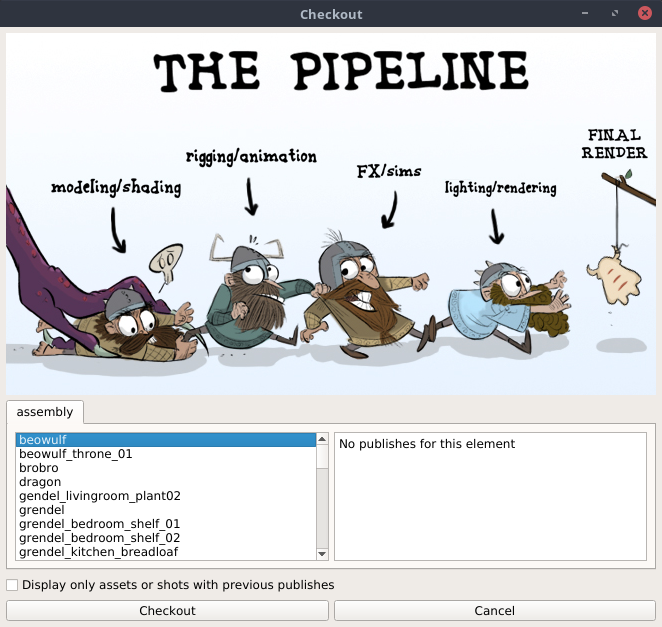
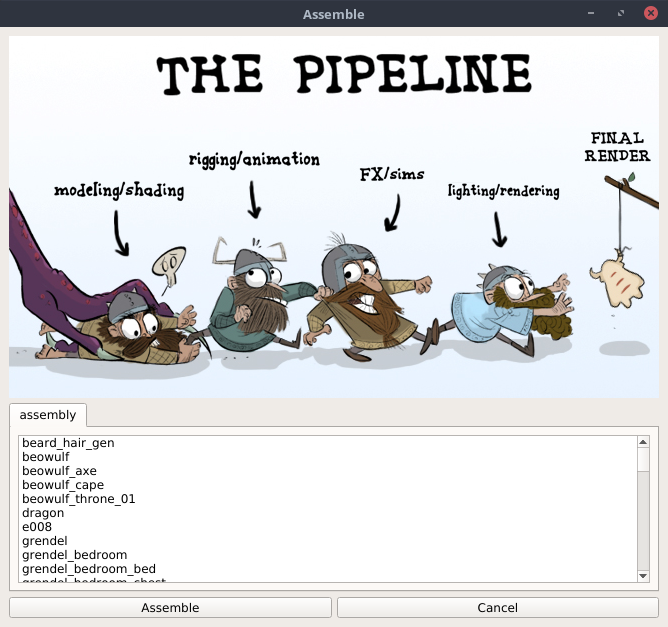
added documentaion for new tools and new understanding

diff --git a/index.html b/index.html
@@ -84,7 +84,7 @@
 
 				<a id="preface-anchor"></a>
 				<h3>Preface</h3>
-				<p>	The very first thing you need to understand about pipelines is that it acts like a library. You go to the library, find the book you want, check it out, read it, then return it to the library. The pipeline works the same way: you go to the pipe, check out the scene you want, change it*, then return it to the pipeline. That way, people can keep checking out the most updated scene and not do work over again that has already been done.</p>
+				<p>The very first thing you need to understand about pipelines is that it acts like a library. You go to the library, find the book you want, check it out, read it, then return it to the library. The pipeline works the same way: you go to the pipe, check out the scene you want, change it*, then return it to the pipeline. That way, people can keep checking out the most updated scene and not do work over again that has already been done.</p>
 				<p>*<strong>*Note:</strong> In that sense it's nothing like a library because typically you should return books to the library in the same condition in which you got it. And in this case you are returning it to the library better than when you picked it up. As a matter of fact there are lots of differences between the pipeline and a library. And we are about to look at another difference here it a bit. So don't hold onto that too tightly analogy.</p>
 				<p>One important difference between the pipeline and a library is that multiple people can check out the same item. This is so that when Mike is working on something Brennan can still check it out and do tests on it or show it off to someone instead of Mike having a monopoly on the model.</p>
 				<p>As we move forward though these instructions please note that every time you see the word Grendel you can replace it with the name of your film, Every time you see the word Grendaya, Grendini, etc, replace it with "TheNameOfYourFilmaya, TheNameOfYourFilmini etc. But for the sake of brevity (and for the sake of our ego) we will just use Grendel, Grendaya, Grendini etc.</p>
@@ -97,7 +97,7 @@
 				<p>In order to have access to the pipeline you need to be a member of "the group". Talk to Seth and he will be able to add you.</p>
 				<p>Once you are part of the group open up a file explorer and navigate to /groups/FILM/byu-pipeline-tools/. FILM will be the name of the group (ie grendel, dusk, etc). This directory is where all of the tools are located.</p>
 				<p>There will be a number of icons, most of which will be some humorous combination of the film name and the software. These icons will launch the software and load all of our custom tools.</p>
-				<img src = "images/screenshots/byu-pipeline-tools.png"/>
+				<img src="images/screenshots/byu-pipeline-tools.png"/>
 				<p>To add these icons to your desktop:
 					<ol>
 						<li>Right click on the icon</li>
@@ -115,8 +115,8 @@
 				</p>
 				<ul>
 					<li>
-						<a href="#asset-def">Assets</a> are either props, accesories, sets, or characters. Assets are composed of various <a href="#element-def">elements</a>: <a href="#model-def">models</a>, <a href="#rig-def">rigs</a>, <a href="#texture-def">textures</a>, <a href="#design-def">designs</a>, <a href="#material-def">materials</a>, and <a href="#assebly-def">assemblies</a>.
-						<p>A common misconception is that an asset is the same as a model, however the appropriate relationship (at least as the pipeline tools see it) is to say that an asset has a model, it is a subtle difference and you will likely hear people (even those that are very familiar with the difference) slip up with it all the time. So just keep in mind as you read through this documentation and talk to others that an asset could potentialy refer to:
+						<a href="#asset-def">Assets</a> are either props, accessories, sets, or characters. Assets are composed of various <a href="#element-def">elements</a>: <a href="#model-def">models</a>, <a href="#rig-def">rigs</a>, <a href="#texture-def">textures</a>, <a href="#design-def">designs</a>, <a href="#material-def">materials</a>, and <a href="#assebly-def">assemblies</a>.
+						<p>A common misconception is that an asset is the same as a model, however the appropriate relationship (at least as the pipeline tools see it) is to say that an asset has a model, it is a subtle difference and you will likely hear people (even those that are very familiar with the difference) slip up with it all the time. So just keep in mind as you read through this documentation and talk to others that an asset could potentially refer to:
 							<ul>
 								<li>something useful or valuable. Everything that is useful or valuable is an asset.</li>
 								<li>short for Houdini Digital Asset</li>
@@ -137,14 +137,23 @@
 				<p><strong>*Note:</strong> For the sake of clarity we will discuss these terms looking at the specific case of the model element of an asset body. But everything should also apply to other elements and other bodies as well.</p>
 				<h4>Body Creation</h4>
 				<p>In order to do anything you need to create a new asset. Assets are usually the first bodies to be created and then shots will be made from assets. Tools will be made as you need them; if you never need them then you will never make them. When you create an asset you will give it a name and the pipeline tools will construct a bunch of folders to store the various elements of the body. For example it will create a model folder that will store the Maya file and the alembic exports for that model. This folder starts out empty but we can fill it by creating the model in Maya and then publishing it to the pipeline.</p>
-				<img src = "images/screenshots/body-creation.png"/>
+				<img src="images/screenshots/body-creation.png"/>
+				<p>If you are creating an asset there are four different types of asset that it could be: Set, Prop, Character, and Accessory. When you create an asset it the body creation tool will ask you which type of asset it is.</p>
+				<img src="images/screenshots/body-creation-asset-type.png"/>
+				<p>It is important that you select the appropriate type at this point because the pipeline will treat the different types very differently. Here are the differences:</p>
+				<ul>
+					<li>Set: Places in the film. These will be made up of props and accessories.</li>
+					<li>Characters: A person or creature in the film.</li>
+					<li>Props: Objects that are used by character. These objects will likely be animated.</li>
+					<li>Accessories: Objects that just sit in the set. These objects will likely not be animated.</li>
+				</ul>
 				<h4>Publishing</h4>
 				<p>First up is to make a part of the assets: the model. Once you have created the model you will need to save it into the pipeline. This is called publishing. When an asset is published, the pipeline tools will make a copy of your file and save it into the pipeline. In the case of the model, the pipeline will take your Maya file and make a copy of it to store in the model folder. Once you have published an asset it will be available for anyone to see and use. The way to access a file that someone else has published is through checking out the assets.</p>
-				<img src = "images/screenshots/publish.png"/>
+				<img src="images/screenshots/publish.png"/>
 				<p>When you publish an asset make sure that you leave a good comment about the changes that you made. This makes it easy to track important changes on the asset and will become crucial if ever you need to rollback (discussed later).</p>
 				<h4>Checkout</h4>
 				<p>To use an asset you need to check it out. Checking out is the opposite of publishing. When you check out an asset the pipeline tools will create a copy of the production asset and save it to your personal files so that you can work on it. You can make whatever changes you need to it and when you are done you publish the asset again so that everyone can have access to your changes.</p>
-				<img src = "images/screenshots/checkout.png"/>
+				<img src="images/screenshots/checkout.png"/>
 				<p>Since the pipeline tools make a personal copy of the file for you, you can modify and save changes as you wish without worrying about changing the production version until you are ready to publish.</p>
 				<p>
 					Multiple people can check out the same asset and work on it at the same time. This is nice because it means that multiple people can look at, do tests on, or work on the the same file. However you need to watch out! Imagine a case where two people, Austin and Kalee, both are working on the model for Grendel. Austin is hard at work modeling Grendel's arms; it has taken him hours. Kalee has checked out Grendel's model as well to check on it's progress. Since Austin hasn't published his changes yet Kalee has an old version. She notices that Grendel's eyes are backwards and in a couple of seconds she fixes them. Austin finishes his changes and publish. Moments later Kalee publishes her changes, but her version doesn't include Austin's changes. There is no way to merge the changes, so the pipeline will use the model that was published most recently, in this case Kalee's version that has the eyes the right way but has the wrong arms. So make sure that you are communicating will all the people that are working on your asset.
@@ -152,13 +161,15 @@
 				<p>Now in the case of Austin and Kalee it is likely that they would actually want to use Austin's version and just apply Kalee's quick changes to it. Thankfully there is a way to revert a production model to a previous version, rollback!</p>
 				<h4>Rollback</h4>
 				<p>When you publish an asset the pipeline will keep track of the history of that item. So at anytime if you need to revert to a previous version of the asset you can rollback the changes.</p>
-				<img src = "images/screenshots/rollback.png"/>
+				<img src="images/screenshots/rollback.png"/>
 				<p>In the case of Kalee and Austin (discussed in the Checkout section), we see that Austin needs to restore his version. He would scroll through the revision history and find his version. If he doesn't remember the exact time of his publish he can look in the comment section for the descriptive comment that he wrote when he published it. Then he can rollback to his version, re-do Kalee's changes and republish.</p>
+
+				<h4>Naming Conventions</h4>
+				<p>You will find that there are a lot of names that end in "_main" and folders that are called "main." Why is this? The idea is that at some point you might want to have different variations of the same asset. For example in Taijitu we had the regular or main Ten and then we also had Dream Ten that had the same model and rig but had a different shader. So the idea is that you would have ten_texture_main and ten_texture_dream and those textures would be stored in /groups/dusk/production/assets/ten/texture/main/ten-skin.tex and /groups/dusk/production/assets/ten/texture/dream/ten-skin.tex. At the time of writing this there is no software that leverages this file structure of naming convention, at least not to my knowledge. In the future we might so we will just leave the folder structure and naming convention in the hope that one day we might support that.</p>
 
 				<a id="life-of-an-asset-anchor"></a>
 				<h3>The Life of a Pipeline Asset</h3>
 				<p>Now let's see these in context of the life of an asset:</p>
-				<!--TODO: Fill in all the missing pieces in the life span of an asset. Use the information Kalee gave in slack-->
 				<ol>
 					<li>
 						Story artists take the story concept and draw each acting moment and scene in the film.
@@ -174,16 +185,17 @@
 					<li>Riggers use the model to create all the necessary rigs in Maya and use the publish tool to save the rig to the asset.</li>
 					<li>Set dressers will bring all the models from each set together and arrange and size them to fit properly in the set. They will them use the publish tool to save the set to the pipeline as a set.
 					<li>Pre vis artists use the rigs and models to create a rough 3D outline of the film. Pre vis artist will layout the basic timing, positions, and camera motion for each shot in Maya and use the publish tool to save the layout to the shot.</li>
-					<li>Animators will use the pre vis layouts to inform thier animation. They will animate all of the characters and props in Maya and use the publish tool to save the animation to the shot.</li>
+					<li>Animators will use the pre vis layouts to inform their animation. They will animate all of the characters and props in Maya and use the publish tool to save the animation to the shot.</li>
 					<li>Shaders will create textures for the the asset in Mari and publish the textures to the proper asset.</li>
 					<li>Each asset will be assembled in Houdini using the models and textures created earlier and publish it as the assembly part of the asset. Each assembly has the the shader, set placement, and animation built into it.</li>
 					<li>Lighters will bring in the all of the assemblies for each shot and add lights to the set to create the appropriate mood for the shot.</li>
 					<li>Render Wranglers will brake the assets in the shot into layers and render each shot.</li>
 					<li>Compositors will bring the renders from Houdini into Nuke, add composite each shot to make sure that the film has a unified polished look. Then they will publish the composition to the shot</li>
 					<li>Editors will bring the composites of each shot together and join it with music and foley to create the final product.</li>
-					<li>Critcs at the Television Academy will then watch the film. Decide it is the best short film that they have ever seen and award BYU with a Student Emmy for it's wonderful animated film.</li>
+					<li>Critics at the Television Academy will then watch the film, decide it is the best short film that they have ever seen, and award BYU with a Student Emmy for it's wonderful animated film.</li>
 				</ol>
-				<p>It's that easy.</p>
+				<p>It's that easy*.</p>
+				<p><strong>*Note:</strong>Just keep in mind that at almost any point you can go back to a previous point and then move forward again only to jump back to revisit a different point etc.</p>
 				<p>That is the general overview of the pipeline and what it is doing. Now we will move on to the different tools in the various software.</p>
 			</div>
 		</div>
@@ -209,6 +221,14 @@
 
 				<h3><img class="icon" src="images/icons/publish-icon.png"> Publish</h3>
 				<p>The publish button will allow you to upload your model or scene's progress to the pipeline so that others can access it. After checking out a model or scene, you can modify it then publish it back out. Once your asset is published, you should be able to check it out any time you or someone else needs it. Your publishes will replace the previous publishes but it will not overwrite them. This allows you return to a previous version with a rollback (see further down below).</p>
+				<p><strong>Important: </strong> before you publish an asset make sure you are following these conventions:
+					<ul>
+						<li>Geo is properly named. There should be no "polysurface87" in the Outliner. If each piece of geo doesn't have a descriptive name then it will very hard for shaders to know what textures to assign to which geo later on.</li>
+						<li>Make sure that there is as little geo as possible. If the geo is going to use the same texture as another geo in the model you should consider joining them into one mesh. This will make it easier for the shaders to shade and it will make it easier for Houdini to load in and group the asset</li>
+						<li>Make sure that all the geo is grouped into one parent group. Beneath that group there can be any number of groups that you want but all of those groups and meshes need to be contained in one group. Otherwise the sets that reference that asset are going to very cluttered and the alembic export my not export your asset correctly.</li>
+						<li>Make sure you freeze transformations and delete history.</li>
+					</ul>
+				</p>
 				<img src="images/screenshots/publish.png">
 
 				<h3><img class="icon" src="images/icons/set-frame-range-icon.png"> Set Current Frame Range</h3>
@@ -221,11 +241,10 @@
 				<p>An alembic is essentially an .obj file for animated objects. It will export your animation into a format that other packages like Houdini can read. Uploading an alembic to the pipe is a way to backup your file and keep the animation safe even if your animation file explodes, but keep in mind that uploading alembics constantly will slow down the pipe for everyone if it becomes too full of files. We recommend that you export your alembic to the pipe either when you are finished with your animation or reach a major checkpoint. (You may export your animation as an alembic to your local drive (using Maya's built in exporter) as often as you want though.)</p>
 
 				<h3><img class="icon" src="images/icons/tag-icon.png"> Tag Selected Objects for Export</h3>
-				<p>When you are animating a scene, you will probably have your character(s) walking through a set or environment that you aren't necessarily animating. When you tag objects for export, you are telling the computer which objects you DID animate so it knows which ones to export as an alembic. You only have to do this once per scene.
-				To do this, select all your animated objects then click the button. Be sure to only select objects that you've animated (including characters, props, and moving objects).</p>
+				<p>There are a lot of parts of a character that should not be included in an alembic. For example, the rig controls for a character should be left out and only the deformed mesh should be included in the export, or simulation meshes for cloth should not be included but the high res hero cloth that deforms to that simulation mesh should be included. Use the tag tool to mark the geometry that needs to be exported and then when the Export as Alembic tool is run it will only export the tagged geo. You should only ever need to tag an item once. Therefore you should tag it as early in the process as possible. For a model you could tag it when you are rigging it. Tag the geo and then any time the rig is referenced it will still have those tags.</p>
 
 				<h3><img class="icon" src="images/icons/untag-icon.png"> Untag Selected Objects for Export</h3>
-				<p>If you want to change which objects are exporting as an alembic, you can select the objects you want to exclude and click this button. You only have to do this once. And since objects are untagged by default, you should only have to do it to objects that have been tagged previously.</p>
+				<p>If you tag something that should not be tagged or for any other reason you need to untag something then you can untag it with this tool. Since objects are untagged by default, you should only have to do it to objects that have been tagged previously.</p>
 
 				<h3><img class="icon" src="images/icons/reference-icon.png"> Reference a Model or Rig</h3>
 				<img src="images/screenshots/reference.png">
@@ -240,7 +259,11 @@
 				<p>Need to blow something up or set it on fire? Have we got the gnome for you! This is kind of like Myth Buster's "Buster" test dummy except a garden gnome and also virtual. Have fun, go play with scissors and fire on us.</p>
 
 				<h3><img class="icon" src="images/icons/static-export-icon.png"> Export as Static Alembic</h3>
-				<p>Normally a static version of each asset is exported to an alembic when you publish. Should you ever meet a case where you need to reexport the static alembic for an asset but you haven't made any changes that need to be publihsed (sometimes, though rarely, the Houdini tools may prompt you to do so) then you can just checkout the asset and press this button to create the satic alembic export.</p>
+				<p>Normally a static version of each asset is exported to an alembic when you publish. Should you ever meet a case where you need to re-export the static alembic for an asset but you haven't made any changes that need to be published (sometimes, though rarely, the Houdini tools may prompt you to do so) then you can just checkout the asset and press this button to create the static alembic export.</p>
+
+				<h3><img class="icon" src="images/icons/reload-script-icon.png"> IK FK Snapping</h3>
+				<p>The IK FK Snapping Tool allows you to match an IK limb of a rig to the corresponding FK limb. When you click on the tools you will see a small window that will allow you to select the character, limb, and side to snap. Then you click on the mode you want switch to.</p>
+				<img src="images/screenshots/maya-ik-fk-snapping.png">
 
 				<h3><img class="icon" src="images/icons/reload-script-icon.png"> Reload Tools Scripts</h3>
 				<p>If you have made changes to the code that runs any of these buttons then you can use the Reload Tools Scripts tool to reload the scripts without having to restart maya. You can find more information about this in the <a href="#advanced-anchor">Advanced section</a>.</p>
@@ -252,66 +275,147 @@
 				<p>To rollback an element first check it out. Then click the rollback button. A window will come up that will list all of the previous publishes for that element. Click on the publish that you want to go back to and click "Rollback." Maya will essentially recall the file from that past publish and republish it so it becomes the current publish (<strong>*Note:</strong> In the list of publishes this publish will now occur twice, once when it was originally published and again when it was rolled back). It will load publish into Maya and you can then start working on it.</p>
 			</div>
 		</div>
-		<div class="row" id="houdini">
+		<div class="section" id="houdini">
 			<a id="houdini-anchor"></a>
-			<div class="twelve columns">
-				<a name="houdini"></a>
-				<h2>Houdini</h2>
-				<p>For our production, we use Houdini for shading, lighting, rendering, and most of the FX.</p>
-				<p>Do you remember all of those neat things you learned back in the Maya section? Well, throw them out. They only partially relate to the Houdini pipeline tools and having them tightly coupled in your mind will lead to errors.</p>
-				<p>Let's take a look at Houdini</p>
-				<p>Go ahead and open the film version of Houdini. Now at this point Houdini probably didn't load in the shelf like Maya did. To get there you will need to add it.</p>
-				<img src = "images/screenshots/add-houdini-tools-shelf.png"/>
-				<p>With the tools shelf added in, let's take a look at all of the tools.</p>
-				<img src = "images/screenshots/houdini-tools-shelf.png"/>
-				<h3>Create Body</h3>
-				<p>The create body tool here is actually the exact same as the one in Maya, so about forgetting everything what I mean is don't forget this one.</p>
-				<h3>Assemble Asset</h3>
-				<p>To understand how the checkout and publish buttons are different we first need to understand how the assemble asset tool works.</p>
-				<p>In Houdini the method of adding geometry to a scene is typically by using the tab menu in the Network View. In order to add our geometry to Houdini we first need to make digital assets for them. Once we have we will be able to simply tab in all of our assets into Houdini. The assemble asset tool creates the digital assets for you.</p>
-				<img src = "images/screenshots/assemble-asset.png"/>
-				<p>Find the asset that you want to turn into a digital asset and then click "Assemble." This will load in the alembic that Maya exported when you published it, and turn it into a digital asset. Once the digital asset is created you can add the shaders for the various objects into the digital asset. Once you are pleased with your work, select the digital asset, and then click publish. Now the digital asset is ready for anybody to tab into their scene.</p>
-				<p><strong>Important:</strong> Once the asset is assembled you no longer need to assemble it. You can just tab it in. If you click assemble asset again it will bring in all of the alembics from Maya again but it won't bring in any of the shaders that you created. If someone else has already assembled the asset you will receive a message warning you that the asset has already been assembled. You can assemble it again if you want but you will wipe out any changes that may have been there. If you don't need to assemble it again then you can tab it into the network view without assembling it again.</p>
-				<p>Review
-					<ol>
-						<li>Click assemble asset</li>
-						<li>Click on the asset you wish to assemble</li>
-						<li>
-							Click "Check Out", which should lead you to here:
-							<img src = "images/screenshots/hda.png"/>
-						</li>
-						<li>
-							Add shaders and perform whatever other edits
-							<img src = "images/screenshots/shop-net.png"/>
-						</li>
-						<li>Select the digital asset in the network view</li>
-						<li>Click publish</li>
-					</ol>
-				</p>
-				<p>If you need to make changes to the asset the instructions are a little different:
-					<ol>
-						<li>Tab in the asset</li>
-						<li>Select it in the network view</li>
-						<li>Make the necessary changes</li>
-						<li>Select the digital asset in the network view</li>
-						<li>Click publish</li>
-					</ol>
-				</p>
-				<h3>Checkout</h3>
-				<p>Checkout is a little tricky in Houdini. If nothing is selected in the network view when you click "Check Out" it will think you are trying to check out at shot to work on lighting or fx.</p>
-				<img src = "images/screenshots/houdini-checkout-shot.png"/>
-				<p>If you have an asset selected in the network view then it will think that you are trying to check out that asset. And all you will get is this notification that you did it successfully. If you have something selected that is not an asset then nothing will happen.</p>
-				<img src = "images/screenshots/houdini-checkout-asset.png"/>
-				<h3>Reference</h3>
-				<p>There isn't a reference tool per se but since we are using HDAs you can tab in any asset into Houdini. These act as references that will get updated anytime that the HDA get's updated, But you can also then check out the asset after you have tabbed it in, and then it is no longer a reference but a checked out asset.</p>
-				<h3>Rollback</h3>
-				<p>Rollback works in Houdini similarly to Checkout. If you have an HDA selected then it will allow you to rollback that digital asset. If you have a shot checked out then you will be able to rollback that shot.</p>
-				<h3>Publish</h3>
-				<p>Publish is like Checkout and Rollback. If you have and HDA selected it will publish the HDA. If you don't have anything selected then it will publish a shot. (<strong>*Note:</strong> you can only publish an HDA if you first checked it out.)</p>
-				<h3>Inspire</h3>
-				<p>See also <a href="#maya-inspire-tool">Maya Inspire tool</a>. It's the exact same.</p>
-				<h3>Gnome</h3>
-				<p>This is essentially the same as the Maya Gnomic Test Geo tool but in Houdini it also will load in the gnome's textures!</p>
+			<div class="row">
+				<div class="twelve columns">
+					<a name="houdini"></a>
+					<h2>Houdini</h2>
+					<p>For our production, we use Houdini for shading, lighting, rendering, and most of the FX.</p>
+					<p>Do you remember all of those neat things you learned back in the Maya section? Well, throw them out. They only partially relate to the Houdini pipeline tools and having them tightly coupled in your mind will lead to errors.</p>
+					<p>Let's take a look at Houdini</p>
+					<p>Go ahead and open the film version of Houdini. Now at this point Houdini probably didn't load in the shelf like Maya did. To get there you will need to add it.</p>
+					<img src="images/screenshots/add-houdini-tools-shelf.png"/>
+					<p><strong>Sidenote:</strong> Additionally you can find all the tools in the menus. Just incase you prefer that to a shelf button. Also tools will show up in the menu first because they are easier to add to the menu then they are to add to the shelf. So if you are looking for a BYU tool and it's not on the shelf, check the menu.</p>
+					<img src="images/screenshots/houdini-menu.png"/>
+					<p>With the tools shelf added in, let's take a look at all of the tools.</p>
+					<img src="images/screenshots/houdini-tools-shelf.png"/>
+					<h3>Create Body</h3>
+					<p>The create body tool here is actually the exact same as the one in Maya, so about forgetting everything what I mean is don't forget this one.</p>
+					<h3>Assemble Asset</h3>
+					<p>To understand how the checkout and publish buttons are different we first need to understand how the assemble asset tool works.</p>
+					<p>In Houdini the method of adding geometry to a scene is typically by using the tab menu in the Network View. In order to add our geometry to Houdini we first need to make digital assets for them. Once we have we will be able to simply tab in all of our assets into Houdini. The assemble asset tool creates the digital assets for you.</p>
+					<img src="images/screenshots/assemble-asset.png"/>
+					<p>Find the asset that you want to turn into a digital asset and then click "Assemble." This will load in the alembic that Maya exported when you published it, and turn it into a digital asset. Once the digital asset is created you can add the shaders for the various objects into the digital asset. Once you are pleased with your work, select the digital asset, and then click publish. Now the digital asset is ready for anybody to tab into their scene.</p>
+					<p><strong>Important:</strong> Once the asset is assembled you no longer need to assemble it. You can just tab it in. If you click assemble asset again it will completely rebuild the digital asset, bringing in the alembics from Maya again but it won't bring in any of the shaders that you created. If someone else has already assembled the asset you will receive a message warning you that the asset has already been assembled. You can assemble it again if you want but you will wipe out any changes that may have been there. If you don't need to assemble it again then you can tab it into the network view without assembling it again.</p>
+					<p>If for some reason you do need to reassemble the asset you may find that the <a href="#reassemble-tool-anchor">reassemble tool</a> will do the trick for you without loosing the shader information.</p>
+					<p>Overview
+						<ol>
+							<li>Click assemble asset</li>
+							<li>Click on the asset you wish to assemble</li>
+							<li>
+								Click "Check Out", which should lead you to here:
+								<img src="images/screenshots/houdini-asset-hda.png"/>
+							</li>
+							<li>
+								Add shaders and perform whatever other edits (More details below)
+								<img src="images/screenshots/shop-net.png"/>
+								<p>Here you will notice that there is a subnet called "dont_touch_this_subnet." At the time of creating this tool there was an issue with adding displacement to groups for RenderMan for Houdini. The only thing we could come up with was to break the groups into their own geo nodes and store them into this subnet. However we were able to make the interface the same as if we didn't have to do this work around. So you shouldn't have to touch this subnet at all. If you find yourself tempted to put stuff in it or to edit any of it's parameters you should really consider if there is a different way you can accomplish what you are trying to do.</p>
+							</li>
+							<li>Select the digital asset in the network view</li>
+							<li>Click publish</li>
+						</ol>
+					</p>
+					<p>If you need to make changes to the asset the instructions are a little different:
+						<ol>
+							<li>Tab in the asset</li>
+							<li>Select it in the network view</li>
+							<li>Make the necessary changes</li>
+							<li>Select the digital asset in the network view</li>
+							<li>Click publish</li>
+						</ol>
+					</p>
+					<h4>Building Shaders</h4>
+					<p>Each asset will have it's own shopnet and you should create the shader for each asset within it's own shader so that whoever checks it out can have the shaders with it.</p>
+					<p>Each texture that is exported from Mari using the Tex export will be found here: "/groups/grendel/production/assets/ASSET_NAME/texture/main/cache/TEXTRUE_NAME.tex."</p>
+					<p>When you assign the filename of the texture to the shader make sure that the path uses $JOB. When using Grendini $JOB refers to "/groups/grendel" so the path from above would become "$JOB/production/assets/ASSET_NAME/texture/main/cache/TEXTRUE_NAME.tex."</p>
+					<img src="images/screenshots/houdini-asset-geo-shaders-job.png"/>
+					<h4>Asset Parameters</h4>
+					<p>Once the asset has been assembled and all of the shaders have been created you can assign them to the geometry. In the geo node (Img 1) you will find all the parameters for setting up the shaders. The Material tab (Img 2) will have a set of parameters for each geometry group in the alembic. These groups are based off of the pieces of geometry in Maya. If you have 1000 geos in the outliner you will also have 1000 groups that you are going to have to deal with here. Make sure that the geo is clean and organized in Maya so that it is easy to deal with in Houdini. For each group you can assign the material, the displacement, and the displacement bound.</p>
+					<p><strong>Important:</strong>When you are working on the shaders make sure that the paths to the shaders are relative paths. One way this can be achieved is in the operator selector (Img 7) make sure you have "Export Relative Path" checked before you click accept.</p>
+					<img src="images/screenshots/houdini-asset-geo-shaders-relative-path.png"/><p class="caption">Img 1</p>
+					<p>The RenderMan tab (Img 3) in the geo parameters will have several RenderMan settings such as "Render Polygons as Subdivisions" and "Interpolate Boundary." If there are other RenderMan parameters that would be good to include here let us know and we can add it.</p>
+					<p>If the geometry hasn't loaded you can try going to the Troubleshooting tab (Img 4) and click the "Refresh" button. This will try and reload the geometry from the alembic. If it still doesn't work feel free to poke around any of the nodes and see if you can find the problem. If all else fails just find a Pipeline technician to help fix the problem.</p>
+				</div>
+				<div class="row">
+					<div class="three columns"><img src="images/screenshots/houdini-asset-geo-selected.png"/><p class="caption">Img 2</p></div>
+					<div class="three columns"><img src="images/screenshots/houdini-asset-geo-shaders.png"/><p class="caption">Img 3</p></div>
+					<div class="three columns"><img src="images/screenshots/houdini-asset-geo-renderman.png"/><p class="caption">Img 4</p></div>
+					<div class="three columns"><img src="images/screenshots/houdini-asset-geo-troubleshooting.png"/><p class="caption">Img 5</p></div>
+				</div>
+				<div class="row">
+					<div class="twelve columns">
+						<p>There are also some new parameters on the digital asset (Img 5). In the Grendel tab (Img 6-8) there are options for loading different versions of the asset. These versions can be selected from the "Source Menu" in the Grendel Tab.</p>
+						<p>First, the Object Space (Img 6) option will load the geometry as it was modeled in Maya.</p>
+						<p>The Set Space option (Img 7) allows you to select a set in the film and if this asset appears in that set if will load the translation, rotation, and scale of this asset so it will fit into that set. The set can be selected from the set menu that will appear if the source is set to "Set."</p>
+						<p>The Shot Space option (Img 8) will load in any shot specific animation for this asset. If in the shot the asset remains static then you can leave the source set to Set Space. However if the asset moves then you can select the shot and the tool will load in the dynamic alembic for that specific shot.</p>
+						<p>Additionally there is a hide toggle that will allow you to hide or show the asset and a "Reload" button that is just the "Refresh" button from above that has been promoted up to the HDA level for your convenience.</p>
+					</div>
+				</div>
+				<div class="row">
+					<div class="three columns"><img src="images/screenshots/houdini-asset-selected.png"/><p class="caption">Img 6</p></div>
+					<div class="three columns"><img src="images/screenshots/houdini-asset-object-space.png"/><p class="caption">Img 7</p></div>
+					<div class="three columns"><img src="images/screenshots/houdini-asset-set.png"/><p class="caption">Img 8</p></div>
+					<div class="three columns"><img src="images/screenshots/houdini-asset-shot.png"/><p class="caption">Img 9</p></div>
+				</div>
+
+				<div class="row">
+					<div class="twelve columns">
+						<h4>Assembling a Set</h4>
+						<p>Since a set is a bunch of assets put together the assembly process for a set is a little different. Instead of loading in alembics directly from the set in Maya the assembler will instead load in all of the HDAs for all of the assets that are in that set. It will then promote many of the options discussed above to a parent HDA that represents the set.</p>
+					</div>
+				</div>
+
+				<div class="row">
+					<div class="twelve columns">
+						<div class="six columns"><img src="images/screenshots/houdini-set-hda.png"/><p class="caption">Img 1</p></div>
+						<div class="six columns"><img src="images/screenshots/houdini-set-insides.png"/><p class="caption">Img 2</p></div>
+					</div>
+				</div>
+
+				<div class="row">
+					<div class="twelve columns">
+						<div class="six columns"><img src="images/screenshots/houdini-set-parms.png"/><p class="caption">Img 3</p></div>
+						<div class="six columns">
+							<p>Sets also have a different set of parameters. In the "Set Options" you will find controls to set set the shot for any animation that takes place on the items in that set. You will also find two checkboxes for each item in the set: "Hide" and "Animated". If the Hide box is checked the asset in the set will be hid. If the Animated box is checked then instead of using the typical static geo for the set the animated alembic will be used for the shot specified in the shot folder.</p>
+							<p>All of the shaders should be hooked up on each of the assets in the set so once it is assembled you shouldn't have to do much to it. However you might find it useful to organize the assets in the set into several tabs (as seen in image 3) so that it is easier to find them.</p>
+							<p>Additionally if any of the assets in the set have any custom controls you may want to promote them to the set HDA so you can access those controls without needing to unlock the set HDA.</p>
+						</div>
+					</div>
+				</div>
+
+				<div class="row">
+					<a id="reassemble-tool-anchor"></a>
+					<div class="twelve columns">
+						<h4>Reassembling an Asset</h4>
+						<p>There may be times when you will need to reassemble an asset. This might be because the parameter interface for the assets has changed and it needs to be updated. Or maybe the names of groups and geo changed so much that they don't show up anymore. If the changes are small enough it might be easier to do them by hand. But if the changes are very extensive then the reassemble tool might be the tool for you!</p>
+						<p><strong>WARNING!:</strong> The reassemble tool is going to delete all geo nodes in the HDA. Make sure that anything you want to preserve is stored in a subnet or an HDA tool. Maybe make a copy of it just in case.</p>
+					</div>
+				</div>
+
+				<div class="row">
+					<h3>Checkout</h3>
+					<p>Checkout is a little tricky in Houdini because there are three different things you can checkout (Assets, Shots, and Tools) and they all get checked out a little differently.</p>
+					<p>For Assets and Tools you only need to check them out if you are going to edit them. If you only need to use them in the shot then you can just tab them in. If you do need to checkout an asset or a tool you just tab in the HDA for the Asset or Tool, right click on it, and click checkout.</p>
+					<img src="images/screenshots/houdini-asset-checkout.png"/>
+					<p>It will unlock the node and give you the following confirmation.</p>
+					<img src="images/screenshots/houdini-checkout-asset.png"/>
+					<p>For shots you can checkout either a lighting scene or an effects scene. Just use the "Checkout Shot" tool in the tool shelf, select the shot you want to work on from either the lighting or fx tab, and click checkout.</p>
+					<p><strong>Sidenote:</strong> As you were looking in the shelf you probably noticed that there is also a "Checkout Tool" and "Checkout Asset" buttons as well. You can use these if you want but you are going to have to make sure that you select the node that you want to checkout in the network view and then click checkout.</p>
+					<img src="images/screenshots/houdini-checkout-shot.png"/>
+					<h3>Reference</h3>
+					<p>There isn't a reference tool per se but since we are using HDAs you can tab in any asset into Houdini. These act as references that will get updated anytime that the HDA get's updated, But you can also then check out the asset after you have tabbed it in, and then it is no longer a reference but a checked out asset.</p>
+					<h3>Rollback</h3>
+					<p>Rollback works in Houdini similarly to Checkout. If you want to rollback and Tool or Asset just tab it into the network view right click and click Rollback. If you have a shot checked out then you can use the "Rollback Shot" tool to rollback that shot. From there it's the same as any other rollback.</p>
+					<h3>Publish</h3>
+					<p>Publish is like Checkout and Rollback. (<strong>*Note:</strong> you can only publish an HDA if you first checked it out. In the context menu the option to publish the asset will only show up if you had previously checked out the asset.)</p>
+					<img src="images/screenshots/houdini-asset-publish.png"/>
+					<p>When the publish window comes up, make sure the right asset, or shot is selected, write a publish message descripting what you changed, and click publish.</p>
+					<h3>Inspire</h3>
+					<p>See also <a href="#maya-inspire-tool">Maya Inspire tool</a>. It's the exact same.</p>
+					<h3>Gnome</h3>
+					<p>This is essentially the same as the Maya Gnomic Test Geo tool but in Houdini it also will load in the gnome's textures!</p>
+				</div>
 			</div>
 		</div>
 		<div class="row" id="mari">
@@ -326,9 +430,9 @@
 				<h3>Publish</h3>
 				<p>We currently don't support publishing in Mari but in the future Mari will be able to export a Mari archive of your project into the pipeline so that others can have access to you project. Keep an eye open for this new tool!</p>
 				<h3>Export Tex</h3>
-				<p>You can export .tex files easily with the Export Tex tool. Select the geo or channel you with to export textures for and then click the corresponding Export Option (All, Selected Geo, or Selected Channel). If you used the Import Geo tool then Mari will already know where to export the textures to. If you brought the geo in by yourself (because you started working on it before this tool was made) then it will prompt you to select the asset to which the texture belongs. If you need to get to the texture it can be found in /groups/grendel/production/assets/ASSET_NAME/texture/main/cache/.</p>
+				<p>You can export .tex files easily with the Export Tex tool. Select the geo or channel you wish to export textures for and then click the corresponding Export Option (All, Selected Geo, or Selected Channel). If you used the Import Geo tool then Mari will already know where to export the textures to. If you brought the geo in by yourself (because you started working on it before this tool was made) then it will prompt you to select the asset to which the texture belongs. If you need to get to the texture it can be found in /groups/grendel/production/assets/ASSET_NAME/texture/main/cache/.</p>
 				<p>In the future we will probably be able to make Houdini bring them in automatically for you but until the future has arrived you are going to have to get those manually. Thank you for your patience!</p>
-				<img src = "images/screenshots/mari-tools-menu.png"/>
+				<img src="images/screenshots/mari-tools-menu.png"/>
 				<h3>Inspire</h3>
 				<p>See also <a href="#maya-inspire-tool">Maya Inspire tool</a>. It's the exact same.</p>
 			</div>
@@ -388,9 +492,10 @@
 						<li>Click Save</li>
 					</ol>
 				</p>
-				<h3>Where Do File Go When I Check Them Out</h3>
+				<h3>Where Do Files Go When I Check Them Out</h3>
 				<p>When you check out a file the pipeline tools make a copy of the production file for you to work on. This file is yours and you can edit it as you wish without worrying about messing up the production assets.</p>
 				<img src="images/screenshots/users-folder.png">
+				<p>Since they are part of the film they can be saved in the groups folder and it won't count against your quota!</p>
 			</div>
 		</div>
 		<div class="row" id="glossary">

diff --git a/css/styles.css b/css/styles.css
@@ -61,3 +61,8 @@ img.icon {
 .row {
 	margin-bottom: 20px;
 }
+
+.caption {
+	text-align: center;
+	font-variant: small-caps;
+}
